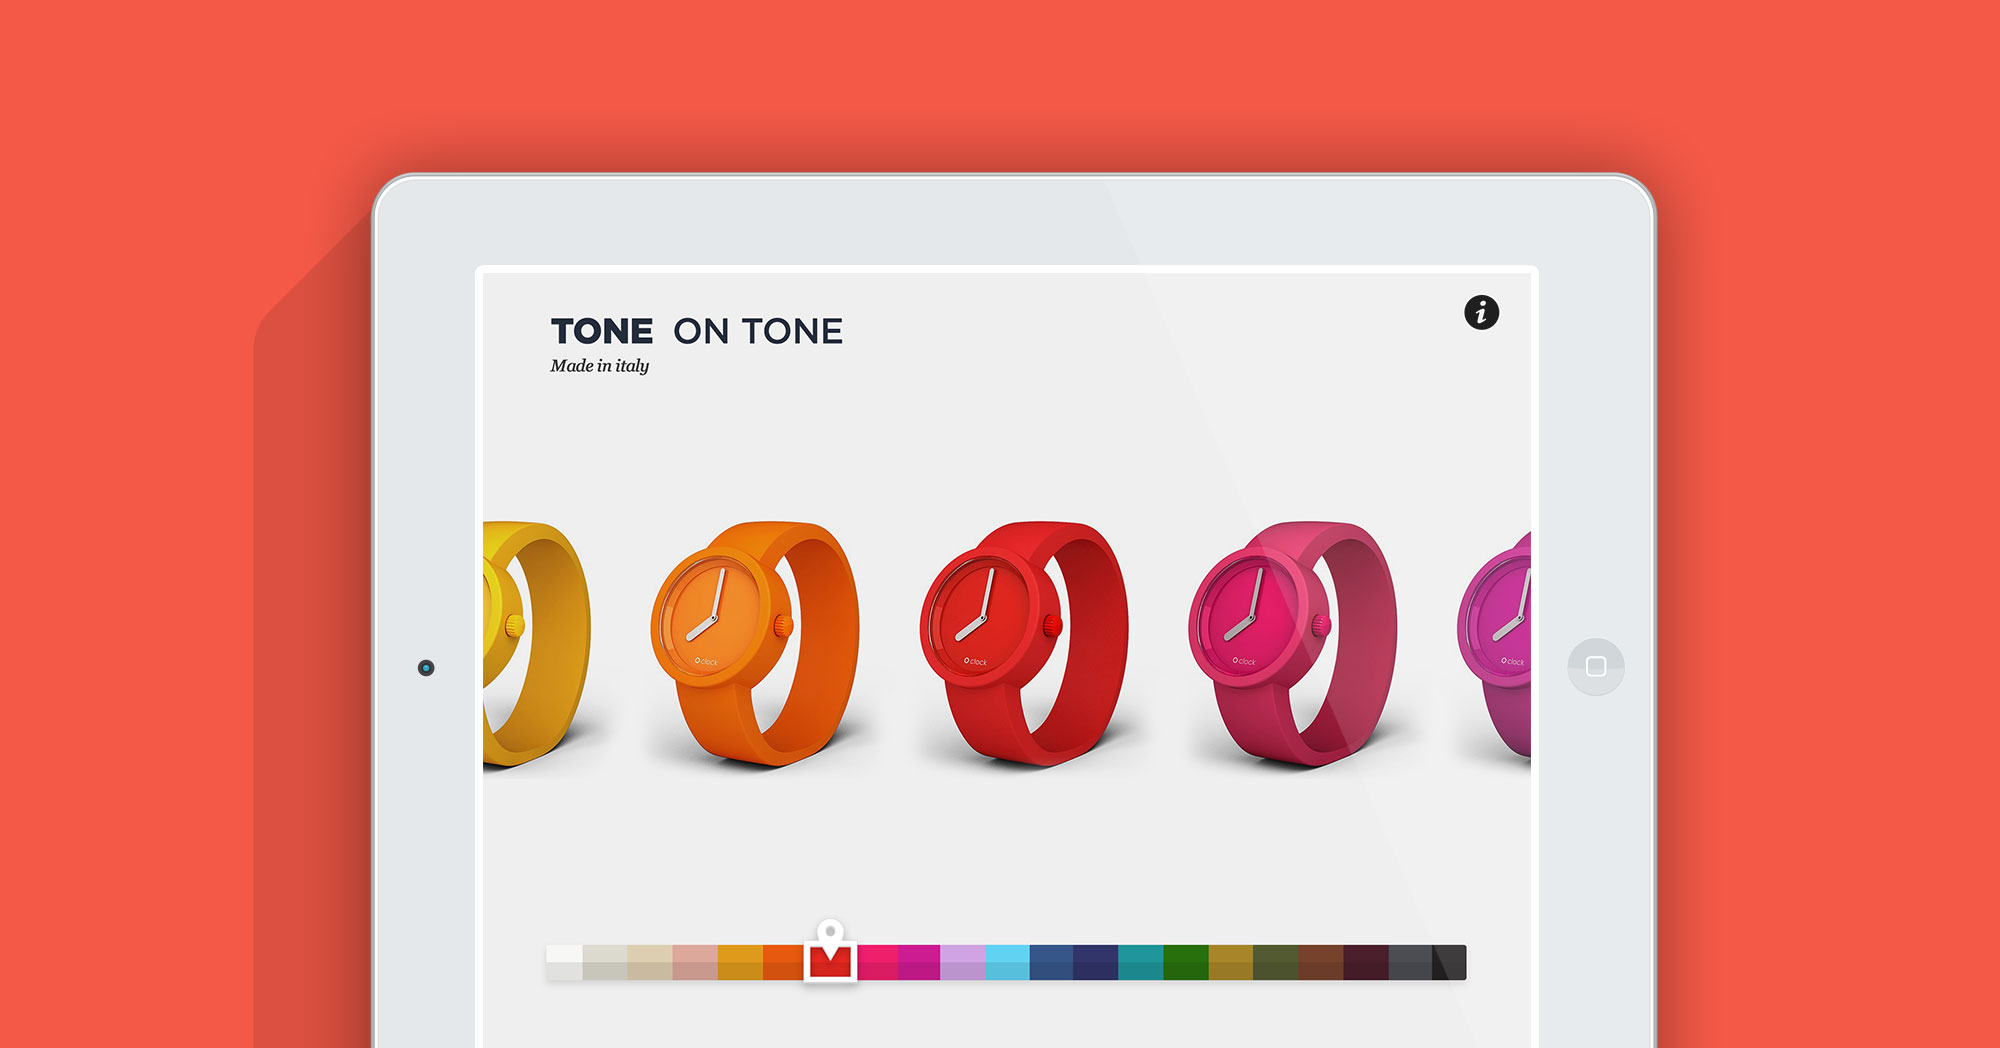
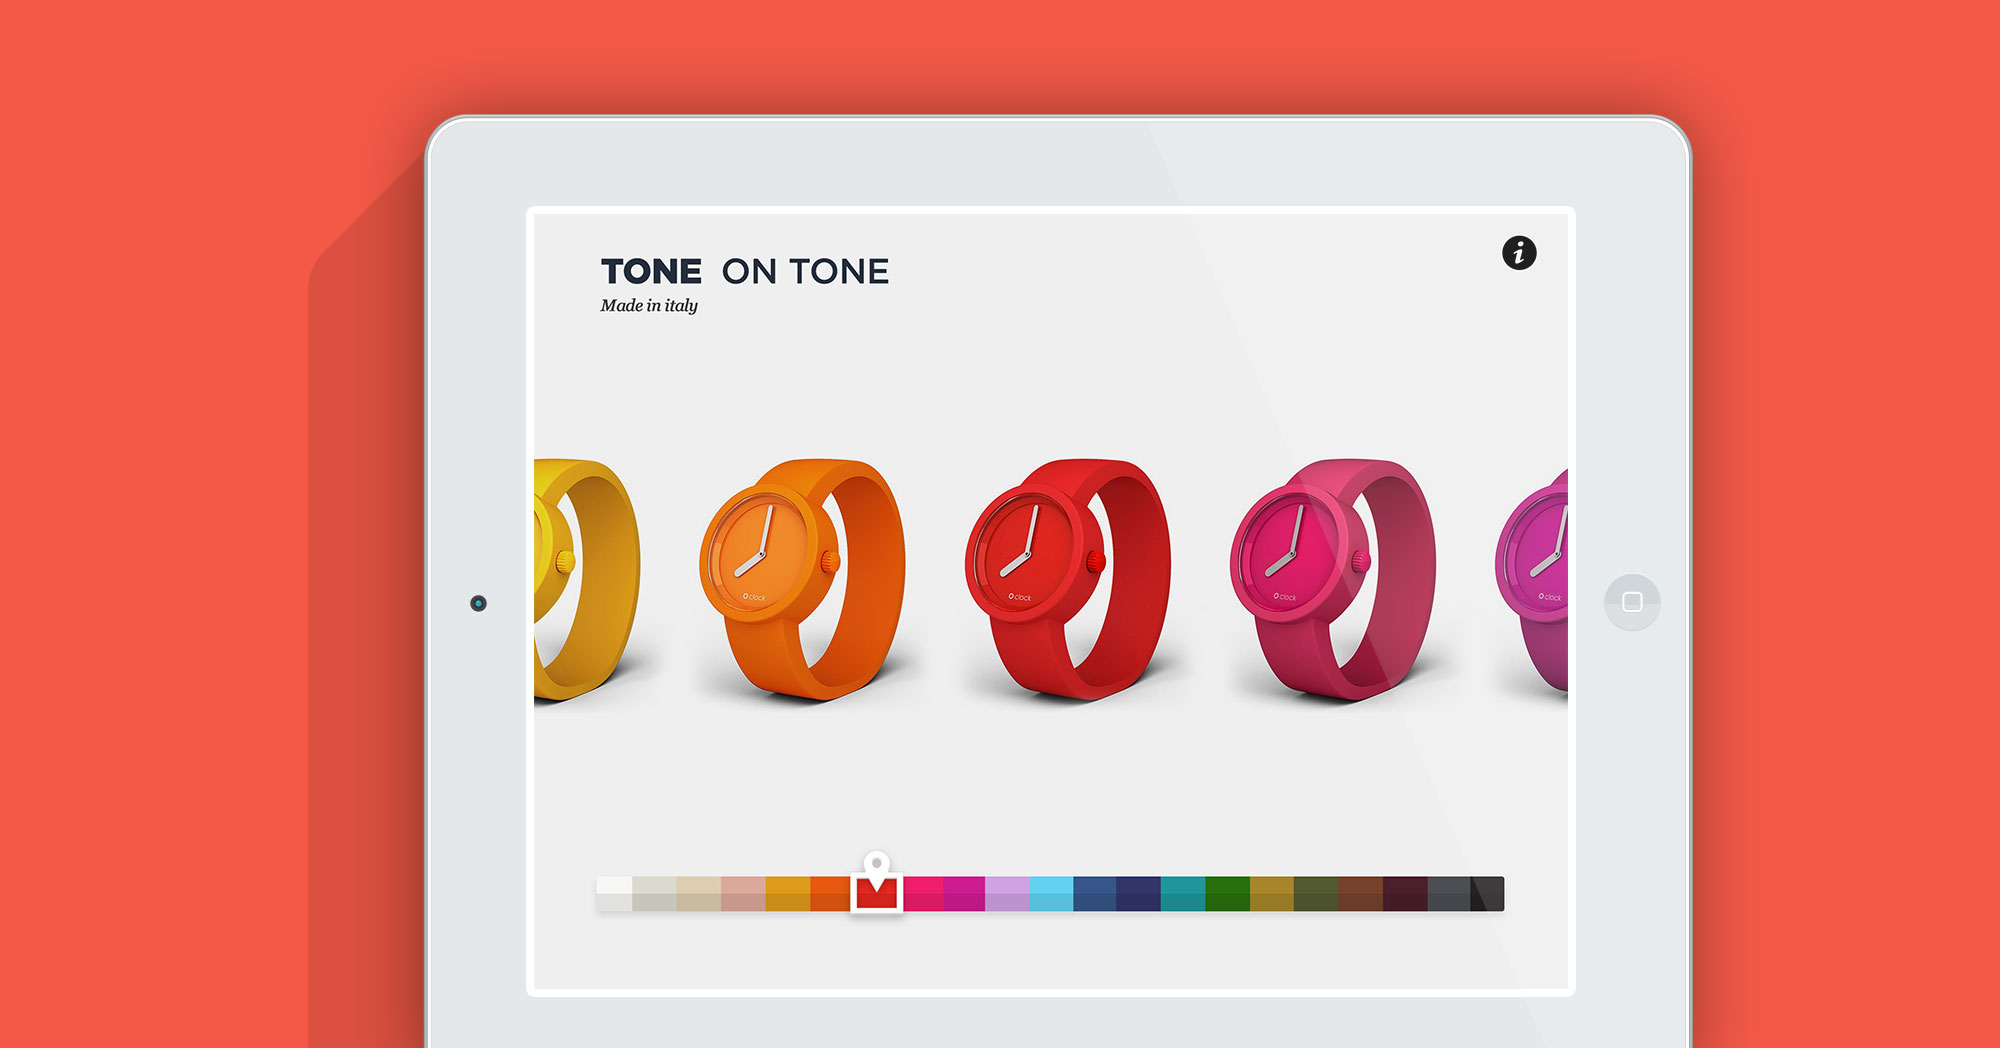
oclock header

diff --git a/_posts/projects/3300-02-26-oclock.md b/_posts/projects/3300-02-26-oclock.md
@@ -84,7 +84,7 @@ work:
 .post-header {
   width: 100%;
   height:550px;
-  background: url(../../work/header/oclock.jpg) center center no-repeat;
+  background: url(../../work/header/oclock.jpg) center top no-repeat;
   background-color: #1f2847;
   background-size: cover;
 }
